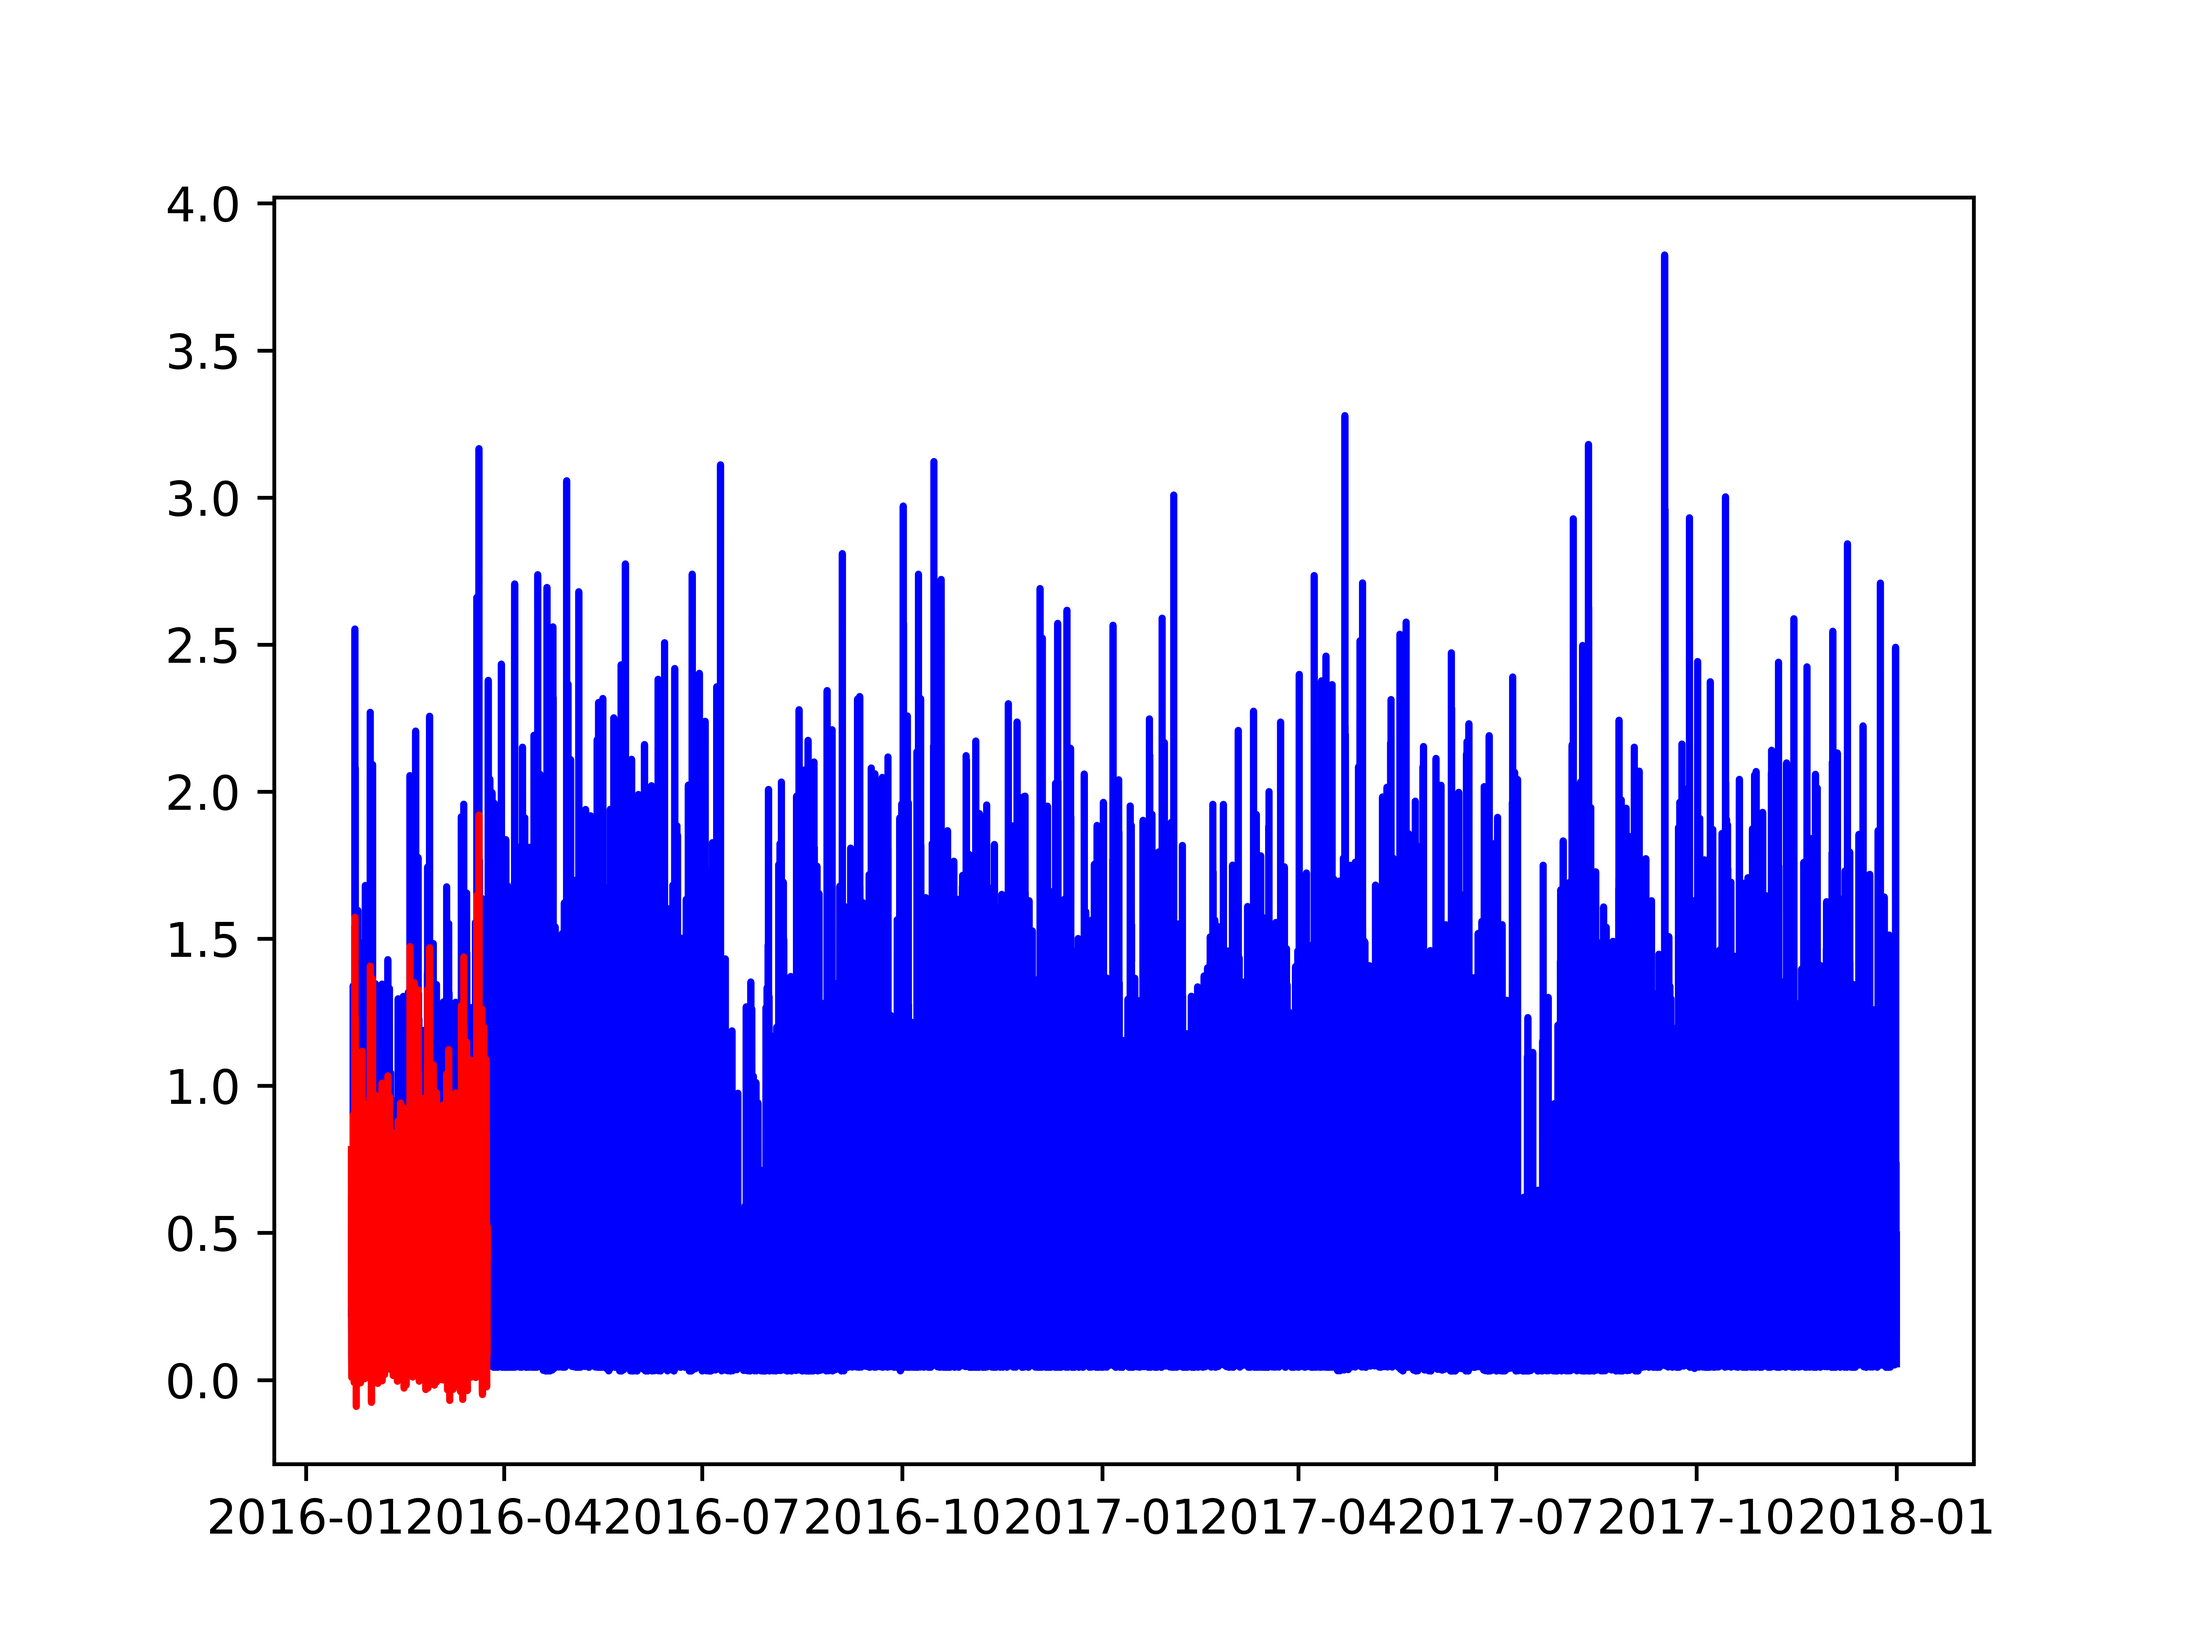
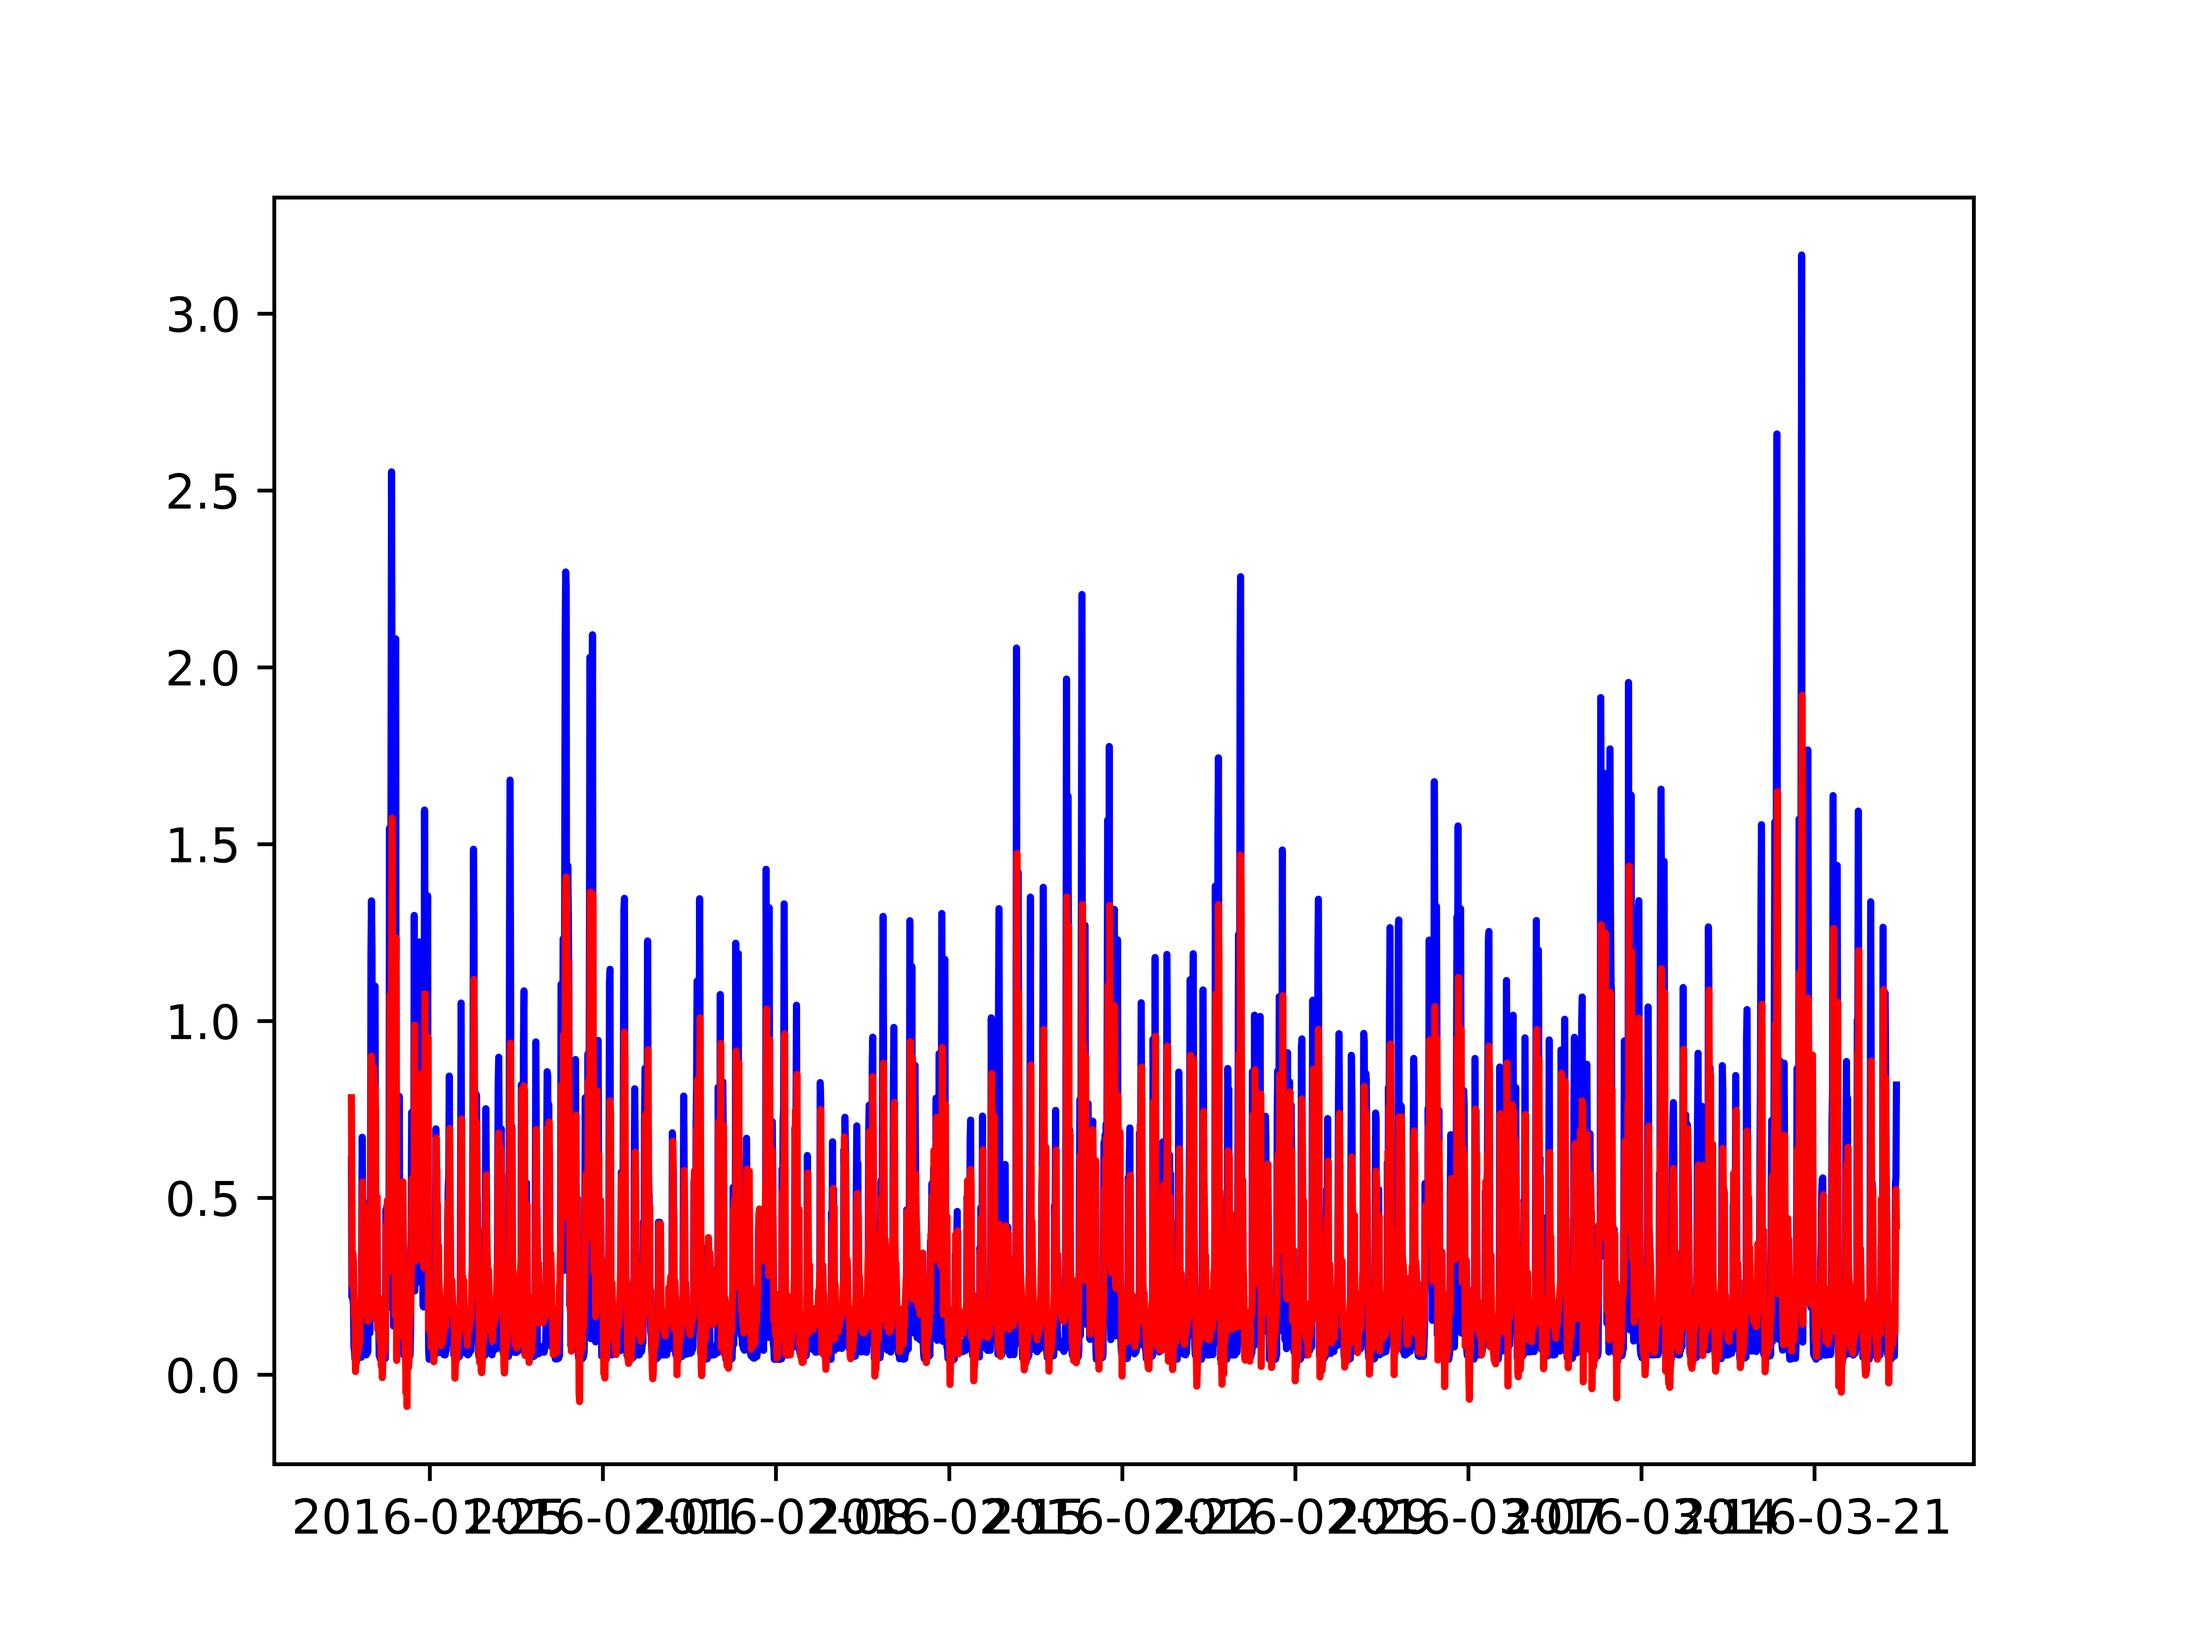
result of direct predictions

diff --git a/azure_lr/azure_forecast.py b/azure_lr/azure_forecast.py
@@ -81,10 +81,10 @@ if __name__=='__main__':
 #        pickle.dump(model, f)
 
 
-    test = test[1000: 40000]
+    test = test[1000: 4000]
     pred = pred[1000: 4000]
 #    predictions_df = predictions_df[1000: 2000]
     plt.plot(test['Time'], test['Sum [kWh]'], color='blue', label = 'Y_true')
 #    plt.plot(predictions_df['Time'], predictions_df['pred_t1'], color = 'red')
-    plt.plot(test['Time'], test['Sum [kWh]'], color='red', label = 'Y_pred')
+    plt.plot(pred['Time'], pred['Sum [kWh]'], color='red', label = 'Y_pred')
     plt.savefig('output_figs/res.png', dpi=1000)
